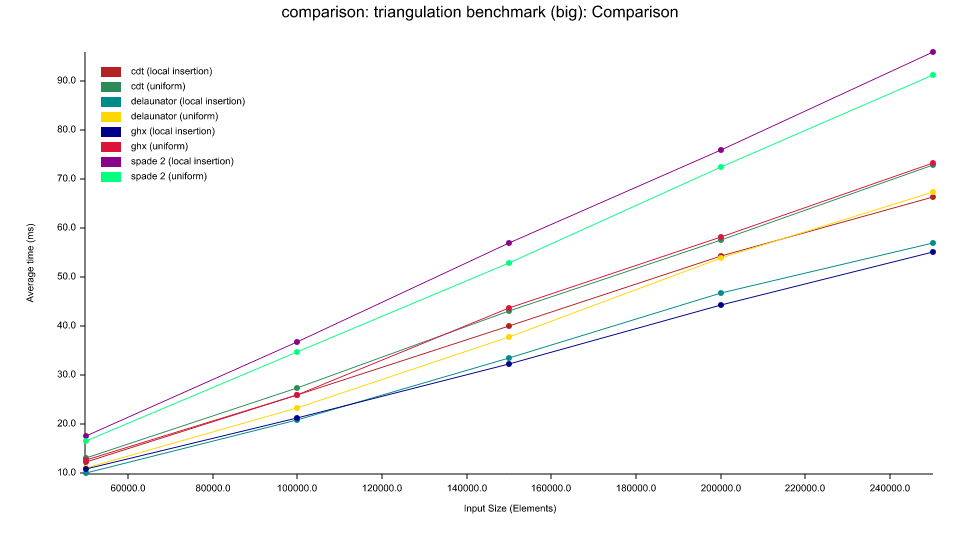
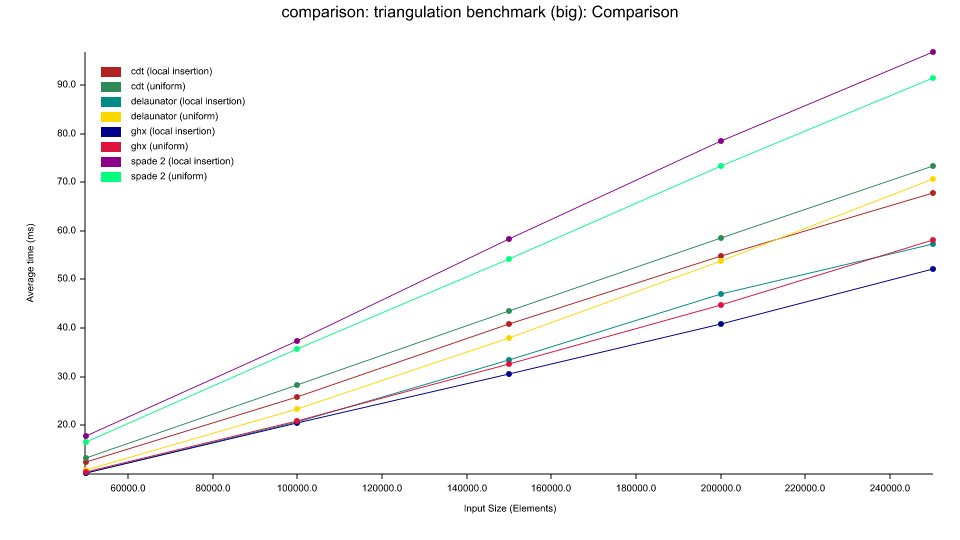
benchmarks: rerun the CDT tables and Delaunay charts with the BRIO order

diff --git a/benchmarks/README.md b/benchmarks/README.md
@@ -30,21 +30,21 @@ The dataset is both loaded with constraint edges and without (as if it was a reg
 
 | ne_50m_coastline.shp     | ghx_constrained_delaunay | Spade | cdt crate |
 | ------------------------ | ------------------------ | ----- | --------- |
-| Without constraint edges | **16ms**                 | 23ms  | 16ms      |
-| With constraint edges    | **18ms**                 | 37ms  | 29ms      |
+| Without constraint edges | **13ms**                 | 23ms  | 17ms      |
+| With constraint edges    | **16ms**                 | 36ms  | 31ms      |
 | With stable vertex order | -                        | 37ms  | -         |
 
 | ne_10m_coastline.shp     | ghx_constrained_delaunay | Spade | cdt crate |
 | ------------------------ | ------------------------ | ----- | --------- |
-| Without constraint edges | **114ms**                | 180ms | 148ms     |
-| With constraint edges    | **133ms**                | 284ms | 245ms     |
-| With stable vertex order | -                        | 286ms | -         |
+| Without constraint edges | **97ms**                 | 178ms | 147ms     |
+| With constraint edges    | **118ms**                | 279ms | 245ms     |
+| With stable vertex order | -                        | 282ms | -         |
 
 | Europe_coastline.shp     | ghx_constrained_delaunay | Spade  | cdt crate |
 | ------------------------ | ------------------------ | ------ | --------- |
-| Without constraint edges | **887ms**                | 1588ms | 2550ms(*) |
-| With constraint edges    | **1028ms**               | 2329ms | 2064ms    |
-| With stable vertex order | -                        | 2328ms | -         |
+| Without constraint edges | **694ms**                | 1559ms | 2612ms(*) |
+| With constraint edges    | **842ms**                | 2300ms | 2046ms    |
+| With stable vertex order | -                        | 2318ms | -         |
 
 _Median of 5 runs, obtained on an i7-14700KF CPU @ 3.40GHz, date: 15/11/2026_
 
